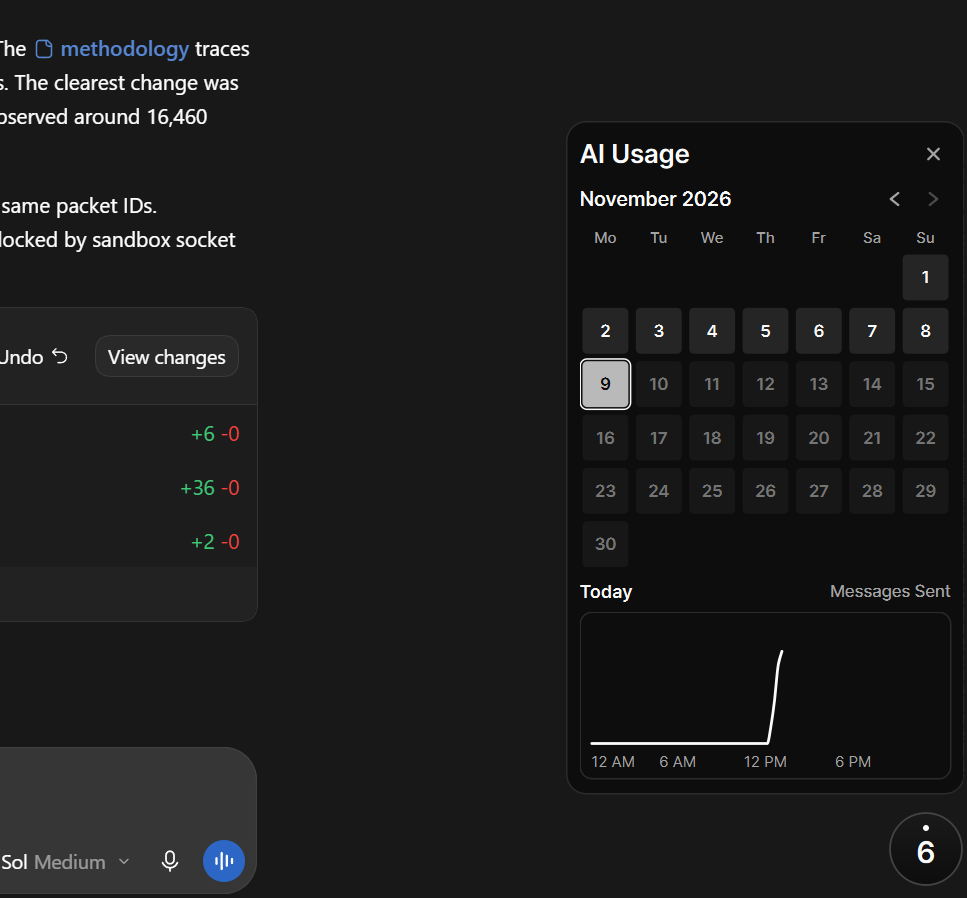
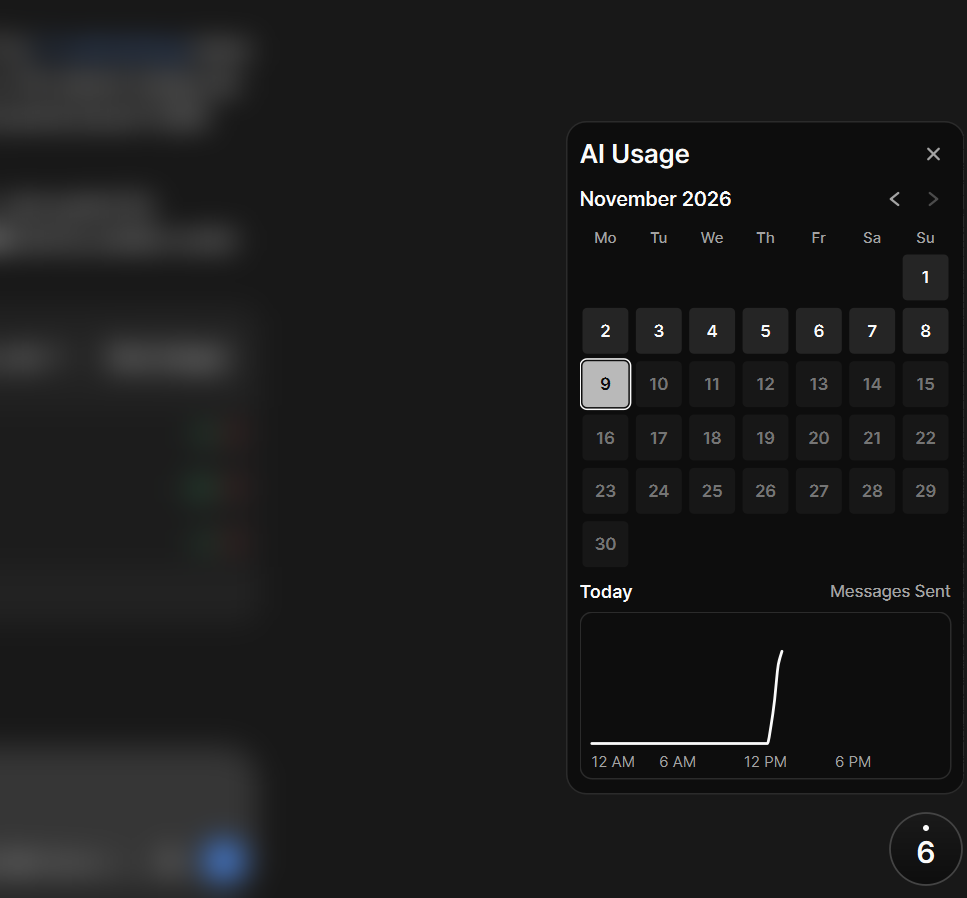
Update README.md to enhance usage tracking description and update widget image

diff --git a/README.md b/README.md
@@ -2,6 +2,8 @@
 
 AI Usage Widget is a floating desktop counter for traffic that matches a ChatGPT message-start pattern. It shows today's detections, a monthly heatmap, and a per-day activity chart. It runs locally using packet metadata and stores its history in SQLite.
 
+The widget takes a non-invasive approach to usage tracking. It passively infers likely message starts from packet sizes, timing, and direction in encrypted traffic. Detection runs independently of browser extensions, proxies, and account integrations. Once packet capture is available, the same approach can work across browsers, desktop clients, and operating systems that produce a matching TCP pattern, with zero per-app setup.
+
 ![AI Usage Widget showing the monthly calendar, daily activity chart, and floating counter](assets/ai-usage-widget.png)
 
 ## Run on Windows
